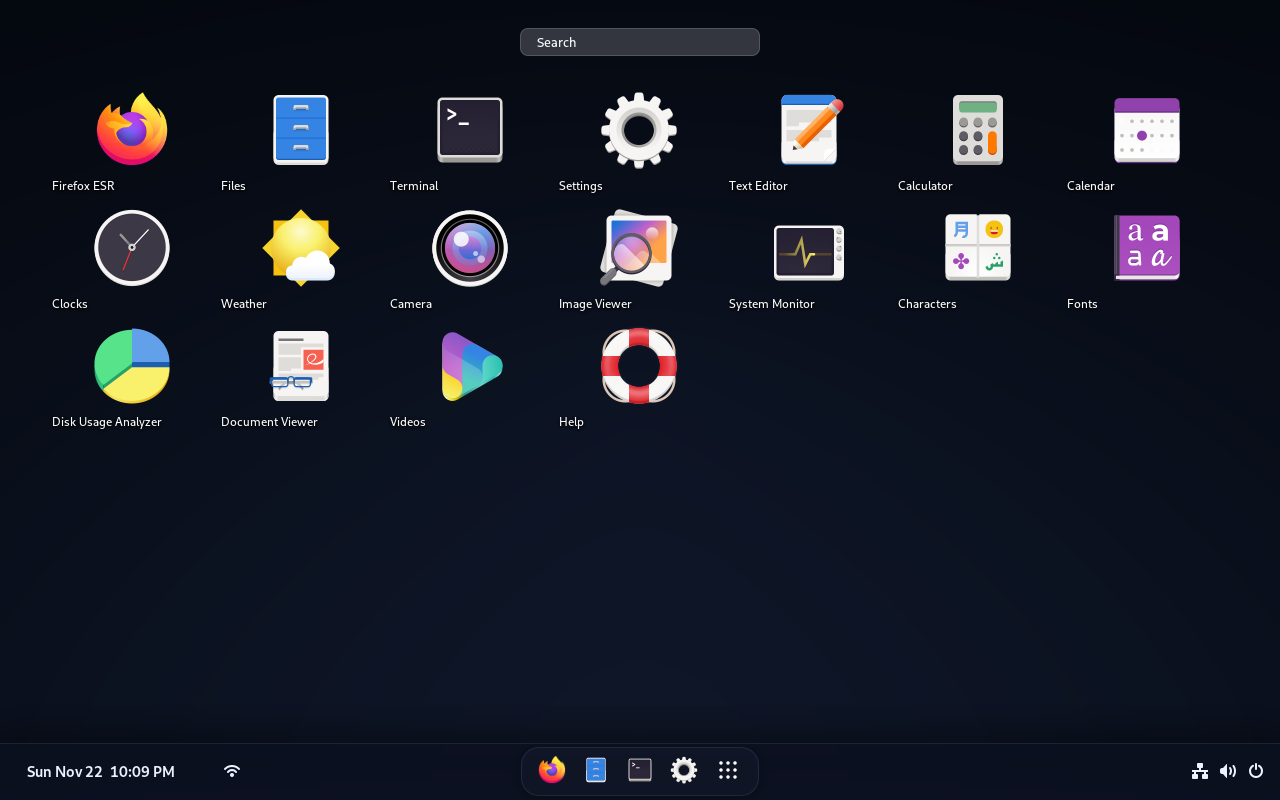
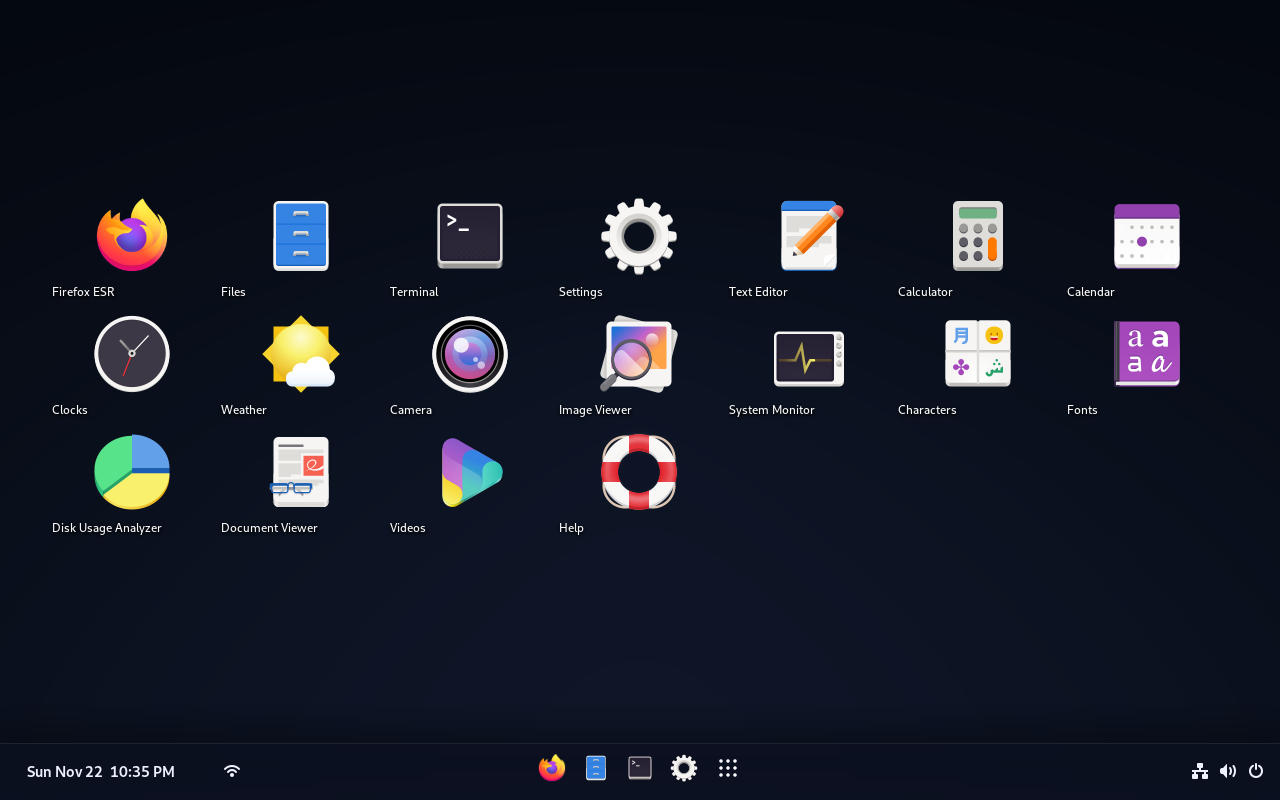
Remove the dock pill and the desktop search field
Dock icons now sit directly on the full-width bar (running dots stay).
The top search field and its filter code are gone, and the app grid is
vertically centered in the remaining space.

diff --git a/distro/overlay/usr/share/gnome-shell/extensions/kos-shell@kos/desktopGrid.js b/distro/overlay/usr/share/gnome-shell/extensions/kos-shell@kos/desktopGrid.js
@@ -1,7 +1,6 @@
-// Launchpad-style home screen: a 7-column grid of large app icons with
-// labels, a rounded search field at the top, and page dots when the apps
-// don't fit on one page. Icons sit directly on a dimmed (and, when the
-// GPU allows, blurred) wallpaper — no tile boxes, no wordmark behind them.
+// Home screen: a 7-column grid of large app icons with labels, and page
+// dots when the apps don't fit on one page. Icons sit on a dimmed
+// wallpaper — no tile boxes, no wordmark, no search field.
 //
 // The grid lives in the wallpaper group, behind open windows (like
 // position:absolute icons on a <body> background). The full-width bottom
@@ -22,9 +21,7 @@ export const ICON_SIZE = 80;
 export const LABEL_HEIGHT = 22;
 export const CELL_HEIGHT = 118;
 export const SIDE_PAD = 48;
-export const SEARCH_TOP = 28;
-export const SEARCH_HEIGHT = 28;
-export const SEARCH_TO_GRID = 28;
+export const GRID_PAD_Y = 32;
 export const DOTS_HEIGHT = 24;
 export const DOTS_BOTTOM = 16;
 
@@ -34,12 +31,10 @@ export class KosDesktopGrid {
         this._signals = [];
         this._actor = null;
         this._backdrop = null;
-        this._search = null;
         this._dots = null;
         this._stageId = 0;
         this._keyId = 0;
         this._page = 0;
-        this._filter = '';
         this._apps = [];
         this.iconBounds = [];
     }
@@ -50,9 +45,8 @@ export class KosDesktopGrid {
             style_class: 'kos-desktop-grid',
             layout_manager: new Clutter.BinLayout(),
             // The container itself is not reactive — a fullscreen reactive
-            // actor (especially one with a blur effect) can end up painted
-            // and picked above application windows. Icons and the search
-            // field opt into clicks individually.
+            // actor can end up painted and picked above application windows.
+            // Icons opt into clicks individually.
             reactive: false,
             x_expand: true,
             y_expand: true,
@@ -65,22 +59,6 @@ export class KosDesktopGrid {
             y_expand: true,
         });
         this._actor.add_child(this._backdrop);
-
-        this._search = new St.Entry({
-            style_class: 'kos-search',
-            hint_text: 'Search',
-            can_focus: true,
-            reactive: true,
-            track_hover: true,
-            x_align: Clutter.ActorAlign.CENTER,
-            y_align: Clutter.ActorAlign.START,
-        });
-        this._search.clutter_text.connect('text-changed', () => {
-            this._filter = this._search.get_text().trim().toLowerCase();
-            this._page = 0;
-            this._layoutIcons();
-        });
-        this._actor.add_child(this._search);
 
         this._dots = new St.BoxLayout({
             style_class: 'kos-page-dots',
@@ -121,7 +99,6 @@ export class KosDesktopGrid {
             this._actor = null;
         }
         this._backdrop = null;
-        this._search = null;
         this._dots = null;
         this.iconBounds = [];
     }
@@ -158,36 +135,30 @@ export class KosDesktopGrid {
         this._backdrop.set_position(0, 0);
         this._backdrop.set_size(wa.w, wa.h);
 
-        this._search.set_size(240, SEARCH_HEIGHT);
-        this._search.set_position(Math.round((wa.w - 240) / 2), SEARCH_TOP);
-
         this._layoutIcons();
     }
 
-    _filteredApps() {
-        if (!this._filter)
-            return this._apps;
-        return this._apps.filter(app => {
-            const name = (app.get_name() || '').toLowerCase();
-            return name.includes(this._filter);
-        });
-    }
-
-    _pageMetrics(wa) {
-        const gridTop = SEARCH_TOP + SEARCH_HEIGHT + SEARCH_TO_GRID;
-        const gridBottom = wa.h - DOTS_BOTTOM - DOTS_HEIGHT;
-        const gridH = Math.max(CELL_HEIGHT, gridBottom - gridTop);
-        const rows = Math.max(1, Math.floor(gridH / CELL_HEIGHT));
-        const perPage = GRID_COLS * rows;
-        return {gridTop, gridBottom, rows, perPage};
+    _pageMetrics(wa, appCount) {
+        // Leave room for page dots; center the used rows in the leftover band.
+        const topLimit = GRID_PAD_Y;
+        const bottomLimit = wa.h - DOTS_BOTTOM - DOTS_HEIGHT;
+        const band = Math.max(CELL_HEIGHT, bottomLimit - topLimit);
+        const rowsFit = Math.max(1, Math.floor(band / CELL_HEIGHT));
+        const perPage = GRID_COLS * rowsFit;
+        const count = appCount !== undefined ? appCount : this._apps.length;
+        const onPage = Math.min(perPage, Math.max(0, count));
+        const usedRows = Math.max(1, Math.ceil(onPage / GRID_COLS) || 1);
+        const usedH = usedRows * CELL_HEIGHT;
+        const gridTop = topLimit + Math.max(0, Math.floor((band - usedH) / 2));
+        return {gridTop, rows: rowsFit, perPage, usedRows};
     }
 
     _layoutIcons() {
         if (!this._actor)
             return;
 
-        // Drop previous icon actors; keep backdrop, search, and dots.
-        const keep = new Set([this._backdrop, this._search, this._dots]);
+        // Drop previous icon actors; keep backdrop and dots.
+        const keep = new Set([this._backdrop, this._dots]);
         for (const child of this._actor.get_children()) {
             if (!keep.has(child))
                 child.destroy();
@@ -195,8 +166,8 @@ export class KosDesktopGrid {
         this.iconBounds = [];
 
         const wa = this._workArea();
-        const apps = this._filteredApps();
-        const {gridTop, rows, perPage} = this._pageMetrics(wa);
+        const apps = this._apps;
+        const {gridTop, rows, perPage} = this._pageMetrics(wa, apps.length);
         const pages = Math.max(1, Math.ceil(apps.length / perPage));
         if (this._page >= pages)
             this._page = pages - 1;
@@ -294,8 +265,8 @@ export class KosDesktopGrid {
     }
 
     _setPage(page) {
-        const apps = this._filteredApps();
-        const {perPage} = this._pageMetrics(this._workArea());
+        const apps = this._apps;
+        const {perPage} = this._pageMetrics(this._workArea(), apps.length);
         const pages = Math.max(1, Math.ceil(apps.length / perPage));
         const next = Math.max(0, Math.min(pages - 1, page));
         if (next === this._page)
@@ -333,15 +304,6 @@ export class KosDesktopGrid {
         return null;
     }
 
-    _inSearch(x, y) {
-        if (!this._search)
-            return false;
-        const [sx, sy] = this._search.get_transformed_position();
-        const sw = this._search.width;
-        const sh = this._search.height;
-        return x >= sx && x <= sx + sw && y >= sy && y <= sy + sh;
-    }
-
     _onStageClick(_stage, event) {
         const [x, y] = event.get_coords();
         if (this._frontWindowAt(x, y))
@@ -349,8 +311,6 @@ export class KosDesktopGrid {
         if (Main.overview && Main.overview.visible)
             return Clutter.EVENT_PROPAGATE;
         if (Main.panel && y >= Main.layoutManager.primaryMonitor.height - (Main.panel.height || 56))
-            return Clutter.EVENT_PROPAGATE;
-        if (this._inSearch(x, y))
             return Clutter.EVENT_PROPAGATE;
 
         for (const b of this.iconBounds) {
@@ -362,25 +322,13 @@ export class KosDesktopGrid {
         return Clutter.EVENT_PROPAGATE;
     }
 
-    // When the desktop is in front, typing goes into the search field
-    // (Launchpad-style filter-as-you-type). Leave keys alone if a window
-    // or the overview has the user's attention.
     _onStageKey(_stage, event) {
         if (Main.overview && Main.overview.visible)
             return Clutter.EVENT_PROPAGATE;
-
         const focusWin = global.display.focus_window;
         if (focusWin && focusWin.get_window_type() === Meta.WindowType.NORMAL)
             return Clutter.EVENT_PROPAGATE;
-
         const symbol = event.get_key_symbol();
-        if (symbol === Clutter.KEY_Escape) {
-            if (this._filter) {
-                this._search.set_text('');
-                return Clutter.EVENT_STOP;
-            }
-            return Clutter.EVENT_PROPAGATE;
-        }
         if (symbol === Clutter.KEY_Left) {
             this._setPage(this._page - 1);
             return Clutter.EVENT_STOP;
@@ -389,18 +337,7 @@ export class KosDesktopGrid {
             this._setPage(this._page + 1);
             return Clutter.EVENT_STOP;
         }
-
-        const clutterText = this._search.clutter_text;
-        if (global.stage.get_key_focus() === clutterText)
-            return Clutter.EVENT_PROPAGATE;
-
-        const ch = String.fromCodePoint(event.get_key_unicode());
-        if (!ch || !ch.trim())
-            return Clutter.EVENT_PROPAGATE;
-
-        global.stage.set_key_focus(clutterText);
-        this._search.set_text((this._search.get_text() || '') + ch);
-        return Clutter.EVENT_STOP;
+        return Clutter.EVENT_PROPAGATE;
     }
 }
 

diff --git a/distro/overlay/usr/share/gnome-shell/extensions/kos-shell@kos/stylesheet.css b/distro/overlay/usr/share/gnome-shell/extensions/kos-shell@kos/stylesheet.css
@@ -23,15 +23,15 @@
     color: #ffffff;
 }
 
-/* Pinned-app "dock" in the middle of the bar — like a macOS Dock pill. */
+/* Pinned-app icons sit directly on the full-width bar — no pill behind them. */
 .kos-dock {
     spacing: 4px;
-    padding: 4px 10px;
-    margin: 4px 0;
-    background-color: rgba(20, 28, 48, 0.55);
-    border: 1px solid rgba(255, 255, 255, 0.08);
-    border-radius: 18px;
-    box-shadow: 0 4px 16px rgba(0, 0, 0, 0.25);
+    padding: 0 6px;
+    margin: 0;
+    background-color: transparent;
+    border: none;
+    border-radius: 0;
+    box-shadow: none;
 }
 
 .kos-dock-item {
@@ -68,37 +68,6 @@
 /* Dimmer sitting over the wallpaper so icons read clearly, without a wordmark. */
 .kos-launchpad-dim {
     background-color: rgba(6, 10, 20, 0.38);
-}
-
-/* Small rounded search field, centered at the top — like macOS Launchpad. */
-.kos-search {
-    width: 240px;
-    height: 28px;
-    padding: 2px 14px;
-    border-radius: 8px;
-    background-color: rgba(255, 255, 255, 0.18);
-    border: 1px solid rgba(255, 255, 255, 0.16);
-    color: #f8fafc;
-    font-size: 13px;
-    font-weight: 500;
-    caret-color: #eef2ff;
-    selected-color: #0b1020;
-    selection-background-color: rgba(59, 130, 246, 0.85);
-}
-
-.kos-search:focus,
-.kos-search:hover {
-    background-color: rgba(255, 255, 255, 0.26);
-    border-color: rgba(255, 255, 255, 0.28);
-}
-
-.kos-search StLabel,
-.kos-search StEntry {
-    color: #f8fafc;
-}
-
-.kos-search-hint {
-    color: rgba(255, 255, 255, 0.62);
 }
 
 /* App icon + label. No dark tile box — the icon sits on its own, like a Mac. */
